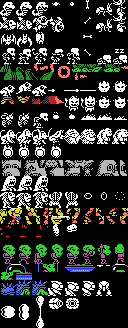
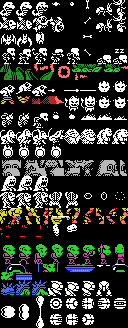
mars guard drones working

Changed region(s): [[0.5, 0.8841, 1.0, 1.0], [0.375, 0.9146, 0.5, 1.0]]

diff --git a/java/src/xspelunker2/GenerateSprites.java b/java/src/xspelunker2/GenerateSprites.java
@@ -648,11 +648,16 @@ public class GenerateSprites {
         data.addAll(extractSpriteFlipped(sourceImage, 80, 280, 15));
         // drone (27):
         data.addAll(extractSprite(sourceImage, 48, 296, 15));  // drone
-        data.addAll(extractSprite(sourceImage, 64, 280, 15));
-        data.addAll(extractSpriteFlipped(sourceImage, 48, 296, 15));
-
-        // filler (30)
-        for(int i = 0;i<32 * 8;i++) {
+        data.addAll(extractSprite(sourceImage, 64, 296, 15));
+        data.addAll(extractSprite(sourceImage, 80, 296, 15));
+        data.addAll(extractSprite(sourceImage, 96, 296, 15));
+        data.addAll(extractSprite(sourceImage, 112, 296, 15));
+        data.addAll(extractSprite(sourceImage, 48, 312, 15));
+        data.addAll(extractSprite(sourceImage, 64, 312, 15));
+        data.addAll(extractSprite(sourceImage, 80, 312, 15));
+        
+        // filler (35)
+        for(int i = 0;i<32 * 3;i++) {
             data.add(0);
         }
         
